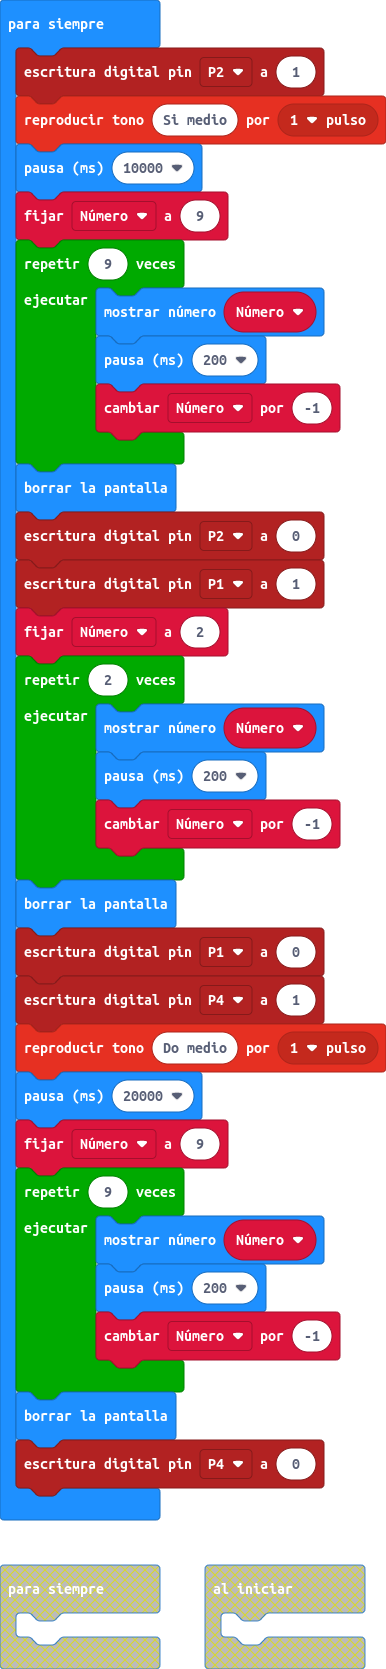
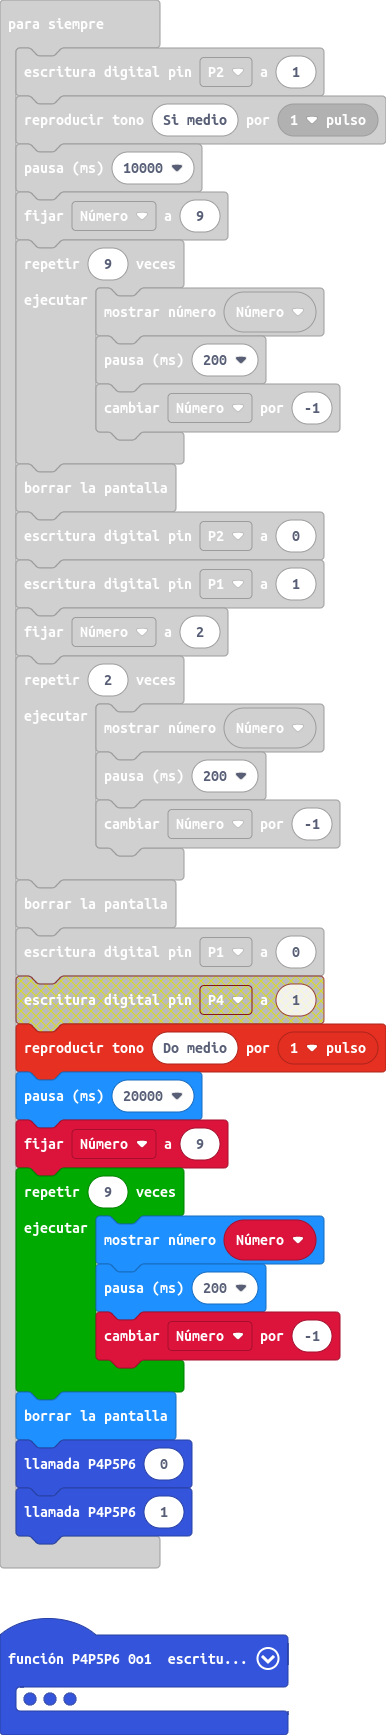
Problema de que pinza no va

diff --git a/main.ts b/main.ts
@@ -1,4 +1,10 @@
 let Número = 0
+function P4P5P6 (_0o1: number) {
+    pins.digitalWritePin(DigitalPin.P4, _0o1)
+    pins.digitalWritePin(DigitalPin.P5, _0o1)
+    pins.digitalWritePin(DigitalPin.P6, _0o1)
+    return
+}
 basic.forever(function () {
     pins.digitalWritePin(DigitalPin.P2, 1)
     music.playTone(494, music.beat(BeatFraction.Whole))
@@ -20,7 +26,7 @@ basic.forever(function () {
     }
     basic.clearScreen()
     pins.digitalWritePin(DigitalPin.P1, 0)
-    pins.digitalWritePin(DigitalPin.P4, 1)
+    P4P5P6(1)
     music.playTone(262, music.beat(BeatFraction.Whole))
     basic.pause(20000)
     Número = 9
@@ -30,5 +36,5 @@ basic.forever(function () {
         Número += -1
     }
     basic.clearScreen()
-    pins.digitalWritePin(DigitalPin.P4, 0)
+    P4P5P6(0)
 })
